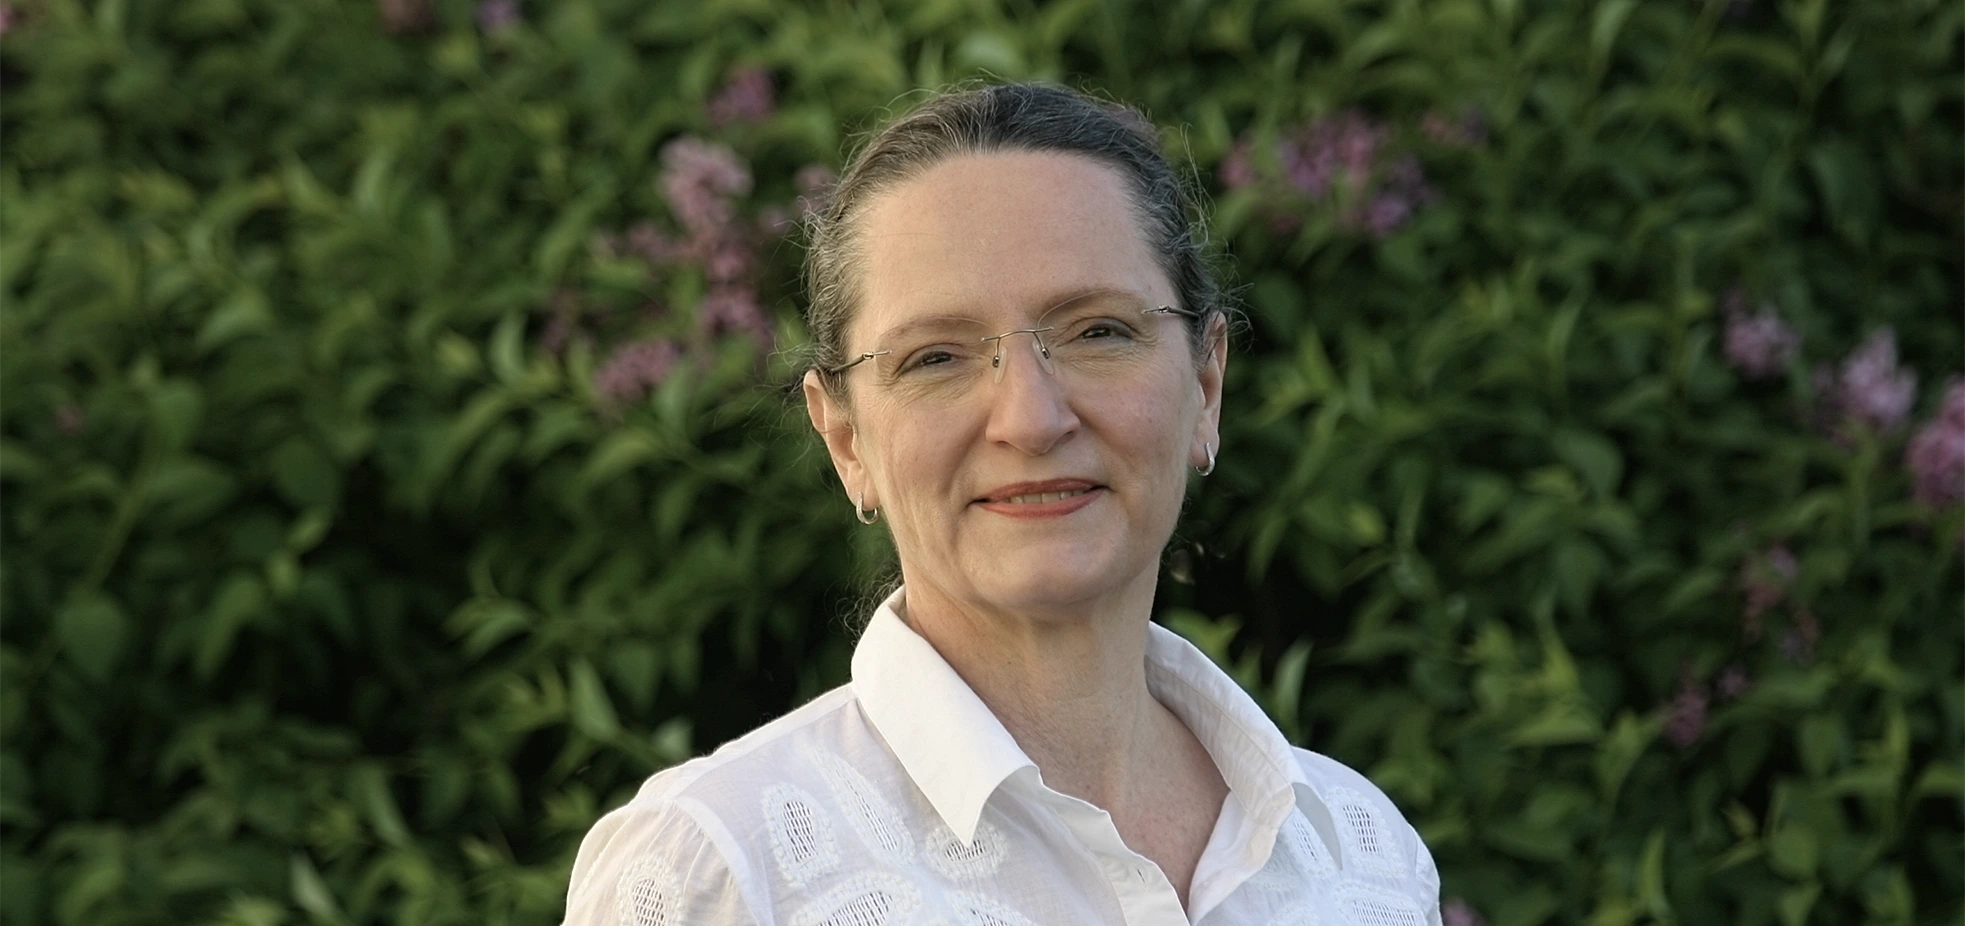
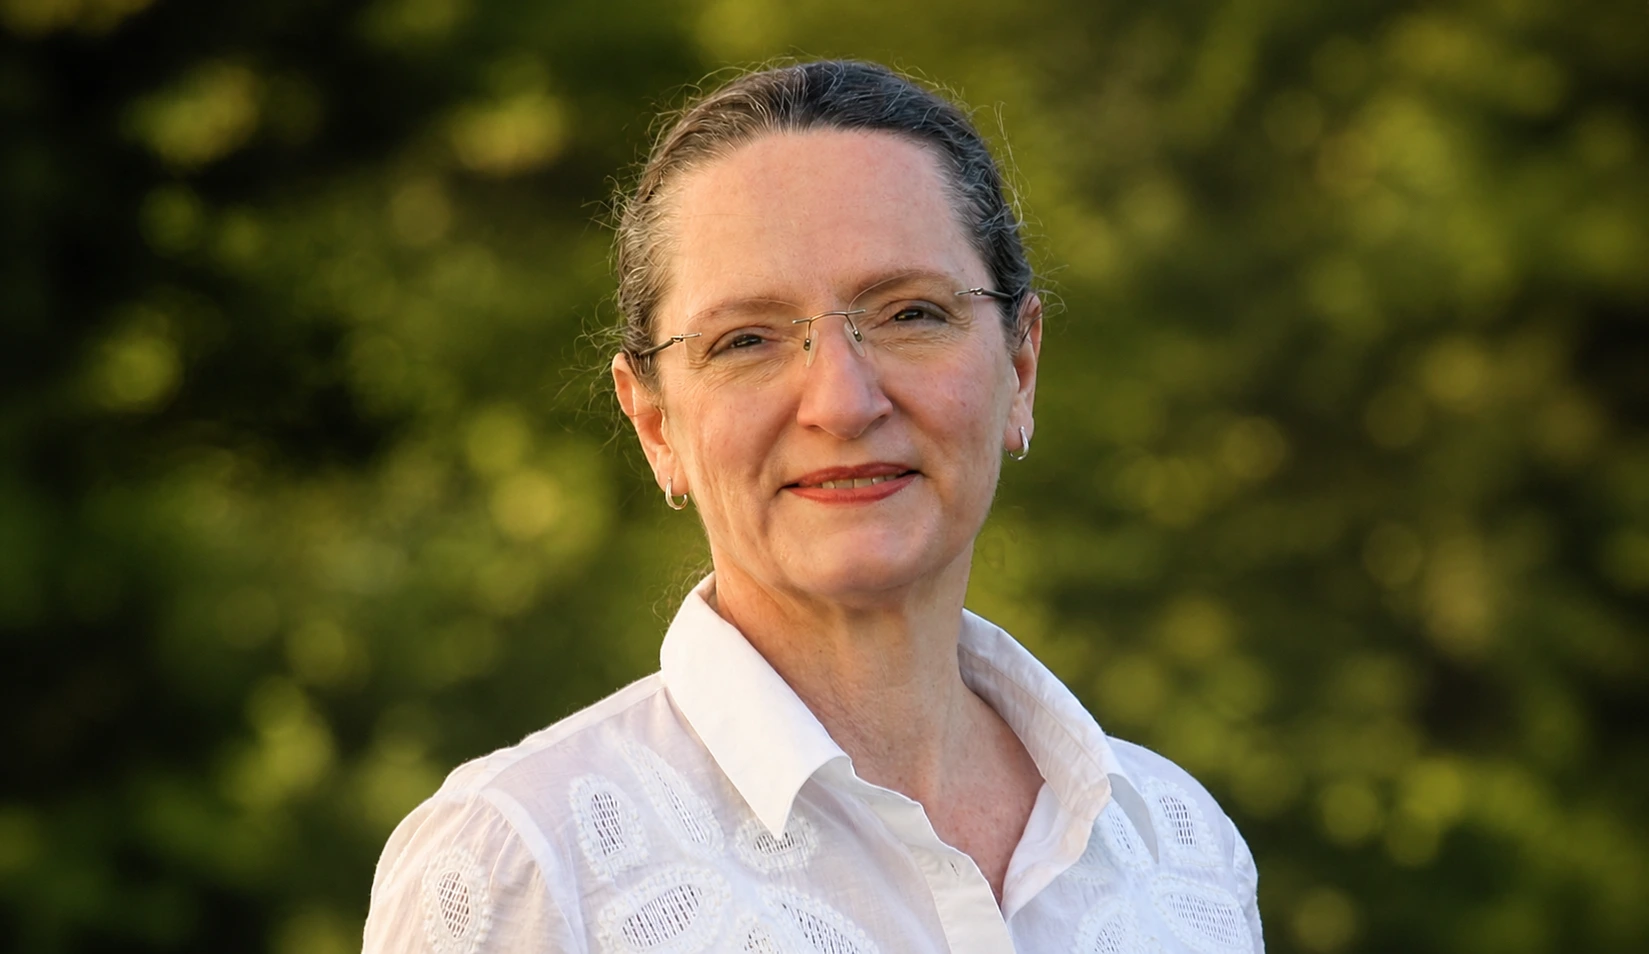
Alle Änderungen in allen Seiten committet

diff --git a/blog-post-2.html b/blog-post-2.html
@@ -111,19 +111,32 @@
 <section class="content blog-post">
 
     <h2>Was ist EMDR und wie kann es bei Traumata helfen?</h2>
-    <p class="post-meta">Veröffentlicht am 2026-03-20</p>
-    
-    <p>Wenn wir schlafen, verarbeitet unser Gehirn die Erlebnisse des Tages. In der sogenannten REM-Phase (Rapid Eye Movement) bewegen sich unsere Augen schnell hin und her. Man geht davon aus, dass diese Augenbewegungen dabei helfen, Informationen im Gehirn zu vernetzen und zu integrieren. Bei traumatischen Erlebnissen kann dieser natürliche Verarbeitungsprozess jedoch blockiert sein.</p>
+    <p class="post-meta">Veröffentlicht am 2026-05-02</p>  
+    <p>Wenn wir schlafen, verarbeitet unser Gehirn die Erlebnisse des Tages. In der sogenannten 
+      REM-Phase (Rapid Eye Movement) bewegen sich unsere Augen schnell hin und her. Man geht davon aus, 
+      dass diese Augenbewegungen dabei helfen, Informationen im Gehirn zu vernetzen und zu integrieren. 
+      Bei traumatischen Erlebnissen kann dieser natürliche Verarbeitungsprozess jedoch blockiert sein.</p>
     
     <h4>Wie ein unverarbeitetes Trauma wirkt</h4>
-    <p>Ein schweres Trauma kann im Gehirn "steckenbleiben". Die Erinnerung wird nicht wie ein normales Erlebnis im Langzeitgedächtnis abgelegt, sondern bleibt im emotionalen Gedächtnis aktiv. Betroffene erleben das Trauma oft so, als würde es gerade erst passieren – durch Flashbacks, Albträume oder starke körperliche Reaktionen bei bestimmten Auslösern (Triggern).</p>
+    <p>Ein schweres Trauma kann im Gehirn "steckenbleiben". Die Erinnerung wird nicht wie ein normales Erlebnis 
+      im Langzeitgedächtnis abgelegt, sondern bleibt im emotionalen Gedächtnis aktiv. Betroffene erleben das Trauma 
+      oft so, als würde es gerade erst passieren – durch Flashbacks, Albträume oder starke körperliche Reaktionen bei 
+      bestimmten Auslösern (Triggern).</p>
     
     <h4>Die EMDR-Methode: Den Verarbeitungsprozess wieder anstoßen</h4>
-    <p>EMDR (Eye Movement Desensitization and Reprocessing) ahmt den natürlichen Mechanismus der REM-Schlafphasen nach. In der Therapie leite ich Sie an, sich auf das belastende Erlebnis zu konzentrieren, während ich gleichzeitig durch Fingerbewegungen Ihre Augen hin und her bewege (bilaterale Stimulation). Alternativ können auch Töne oder Berührungen (Tapping) eingesetzt werden.</p>
+    <p>EMDR (Eye Movement Desensitization and Reprocessing) ahmt den natürlichen Mechanismus der REM-Schlafphasen nach. 
+      In der Therapie leite ich Sie an, sich auf das belastende Erlebnis zu konzentrieren, während ich gleichzeitig 
+      durch Fingerbewegungen Ihre Augen hin und her bewege (bilaterale Stimulation). Alternativ können auch Töne oder 
+      Berührungen (Tapping) eingesetzt werden.</p>
     
-    <p>Diese Stimulation regt das Gehirn an, die blockierte Erinnerung neu zu verarbeiten. Die belastenden Bilder und Gefühle verblassen oft Schritt für Schritt und verlieren ihren Schrecken. Das Ziel ist nicht das Vergessen des Erlebnisses, sondern die emotionale Entlastung. Sie können sich danach an das Ereignis erinnern, ohne von den alten Gefühlen überflutet zu werden.</p>
+    <p>Diese Stimulation regt das Gehirn an, die blockierte Erinnerung neu zu verarbeiten. Die belastenden Bilder und 
+      Gefühle verblassen oft Schritt für Schritt und verlieren ihren Schrecken. Das Ziel ist nicht das Vergessen des 
+      Erlebnisses, sondern die emotionale Entlastung. Sie können sich danach an das Ereignis erinnern, ohne von den 
+      alten Gefühlen überflutet zu werden.</p>
 
-    <p>EMDR ist eine der am besten untersuchten Methoden zur Behandlung von posttraumatischen Belastungsstörungen (PTBS) und wird weltweit von Fachgesellschaften anerkannt. Es ist ein strukturierter und schonender Weg, um alte Wunden heilen zu lassen und wieder mehr Stabilität im Hier und Jetzt zu finden.</p>
+    <p>EMDR ist eine der am besten untersuchten Methoden zur Behandlung von posttraumatischen Belastungsstörungen (PTBS) und 
+      wird weltweit von Fachgesellschaften anerkannt. Es ist ein strukturierter und schonender Weg, um alte Wunden heilen zu 
+      lassen und wieder mehr Stabilität im Hier und Jetzt zu finden.</p>
     
     <div class="blog-citation" style="font-size: 0.8em;">
         <h4>Quellen & Urheberrecht</h4>

diff --git a/blog.html b/blog.html
@@ -114,19 +114,20 @@
     <div class="blog-post-list">
         <article>
             <h4><a href="blog-post-1.html">Die Macht der Perspektive in der Systemischen Therapie</a></h4>
-            <p class="post-date"><time datetime="2026-03-12">2026-03-12</time></p>
-            <p>Die Systemische Therapie lehrt uns, dass es nicht die eine „richtige" Sichtweise gibt. In diesem Beitrag untersuchen wir, wie ein Perspektivwechsel festgefahrene Muster durchbrechen und neue Lösungen ermöglichen kann...</p>
+            <p class="post-date"><time datetime="2026-05-02">2026-05-02</time></p>
+            <p>Die Systemische Therapie lehrt uns, dass es nicht die eine „richtige" Sichtweise gibt. In diesem Beitrag 
+                untersuchen wir, wie ein Perspektivenwechsel festgefahrene Muster durchbrechen und neue Lösungen ermöglichen kann...</p>
         </article>
 
         <article>
             <h4><a href="blog-post-2.html">Was ist EMDR und wie kann es bei Traumata helfen?</a></h4>
-            <p class="post-date"><time datetime="2026-03-20">2026-03-20</time></p>
+            <p class="post-date"><time datetime="2026-05-02">2026-05-02</time></p>
             <p>Wenn wir schlafen, verarbeitet unser Gehirn die Erlebnisse des Tages. In der sogenannten REM-Phase (Rapid Eye Movement) bewegen sich unsere Augen schnell hin und her.</p>
         </article>
 
         <article>
             <h4><a href="blog-post-3.html">Selbstfürsorge im Alltag: Kleine Schritte mit großer Wirkung</a></h4>
-            <p class="post-date"><time datetime="2026-03-28">2026-03-28</time></p>
+            <p class="post-date"><time datetime="2026-05-02">2026-05-02</time></p>
             <p>In unserer hektischen Welt, in der wir oft versuchen, allen Anforderungen gerecht zu werden, kommt eine Person häufig zu kurz: wir selbst.</p>
         </article>
 

diff --git a/blog-post-1.html b/blog-post-1.html
@@ -111,7 +111,7 @@
 <section class="content blog-post">
 
     <h2>Die Macht der Perspektive in der Systemischen Therapie</h2>
-    <p class="post-meta">Veröffentlicht am 2026-03-12</p>
+    <p class="post-meta">Veröffentlicht am 2026-05-02</p>
     
     <p>Die Systemische Therapie lehrt uns eine fundamentale Wahrheit: Es gibt selten nur eine einzige "richtige" Sichtweise auf eine Situation. Unsere Wahrnehmung ist geprägt von unseren Erfahrungen, Werten und dem sozialen Kontext, in dem wir uns bewegen. Was für den einen eine unüberwindbare Hürde darstellt, ist für den anderen eine lösbare Herausforderung. Genau hier setzt die systemische Arbeit an.</p>
     

diff --git a/blog-post-3.html b/blog-post-3.html
@@ -111,7 +111,7 @@
 <section class="content blog-post">
 
     <h2>Selbstfürsorge im Alltag: Kleine Schritte mit großer Wirkung</h2>
-    <p class="post-meta">Veröffentlicht am 2026-03-28</p>
+    <p class="post-meta">Veröffentlicht am 2026-05-02</p>
     
     <p>In unserer hektischen Welt, in der wir oft versuchen, allen Anforderungen gerecht zu werden – sei es im Beruf, in der Familie oder im sozialen Umfeld – kommt eine Person häufig zu kurz: wir selbst. Dabei ist Selbstfürsorge kein Luxus oder Egoismus, sondern eine Notwendigkeit für unsere psychische und physische Gesundheit.</p>
     
